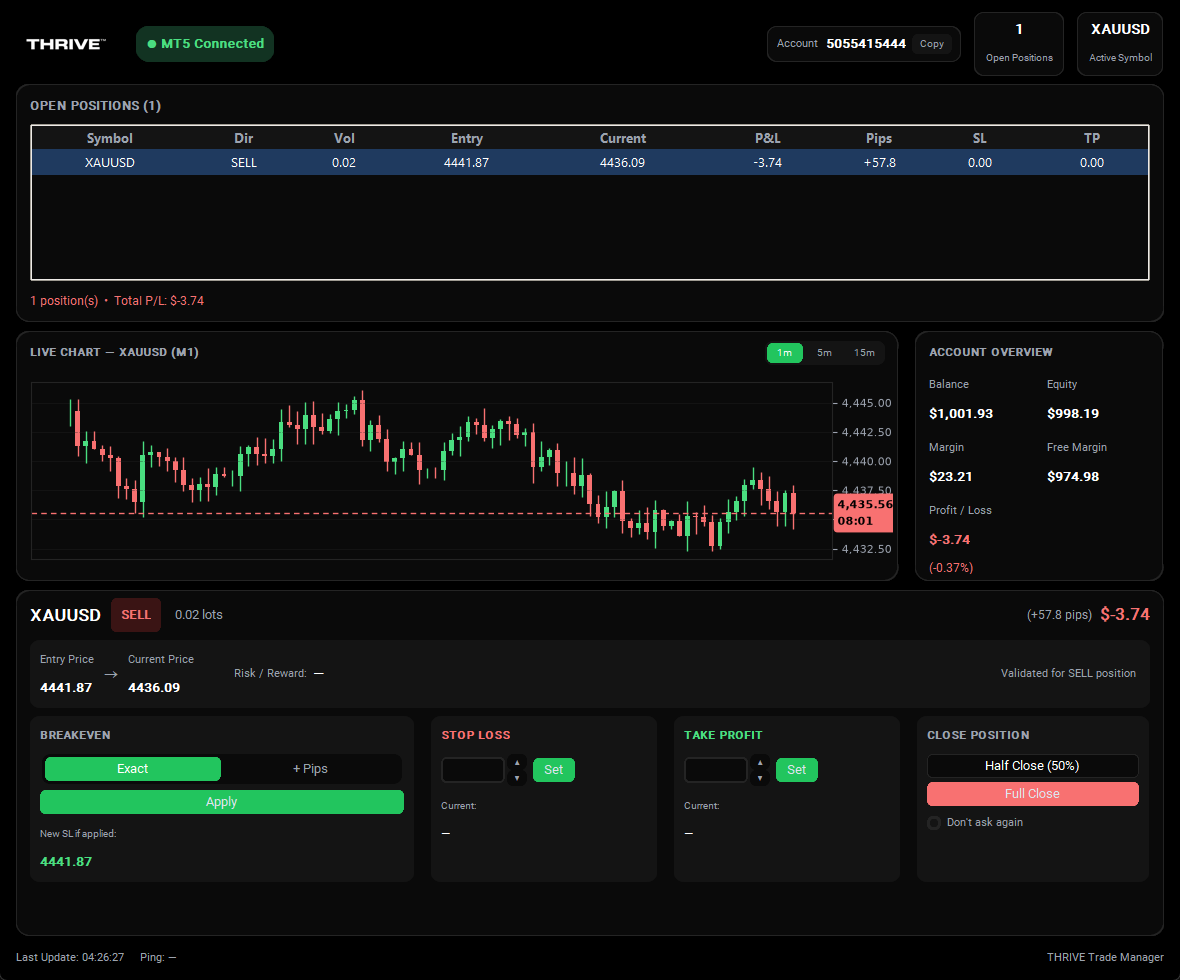
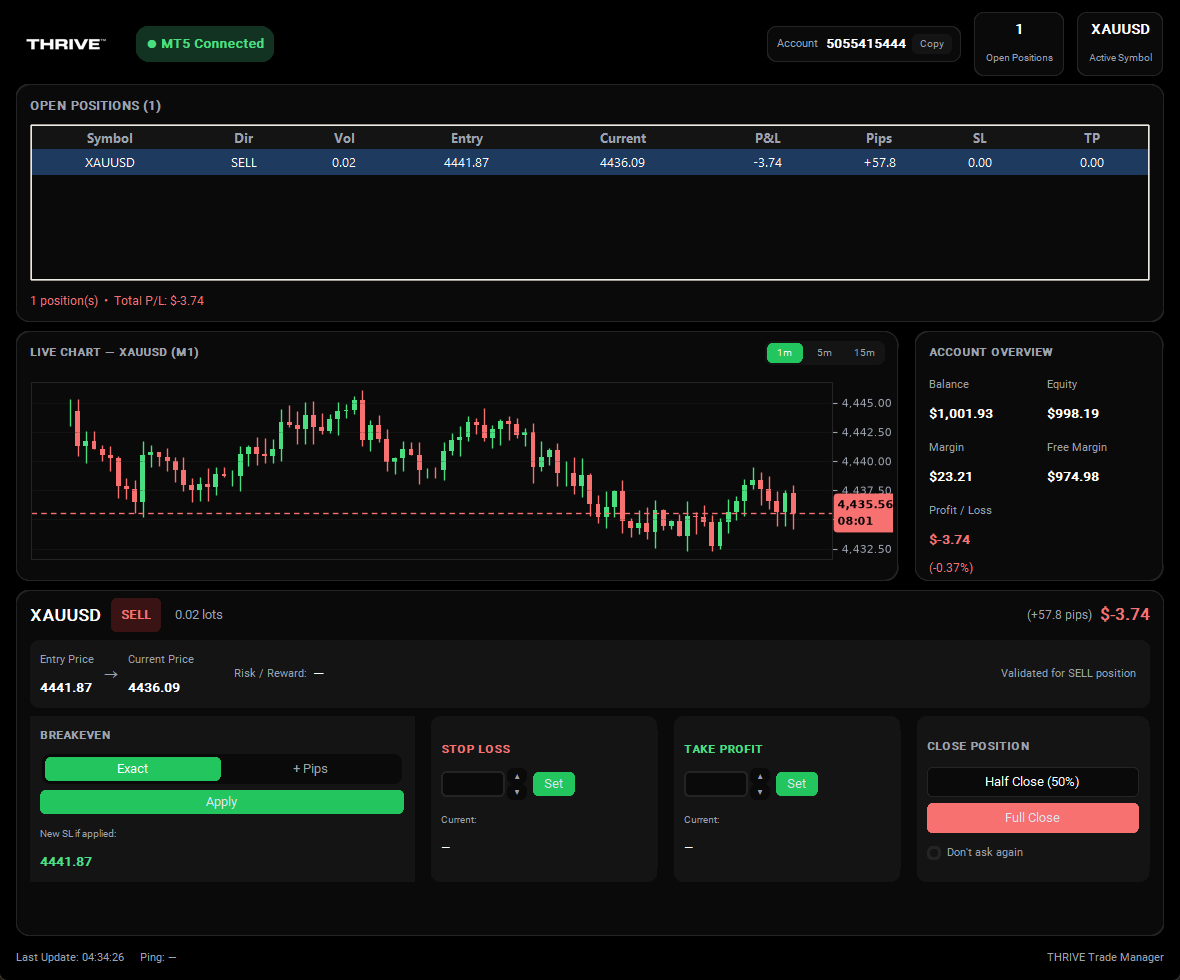
Vertically center detail panel's 4 action boxes; make Close Position bigger
Stop Loss and Take Profit's content sat top-anchored, leaving a large
dead gap below "Current: —" since the row's height is set by its
tallest sibling (Breakeven) -- confirmed by user screenshot. Wrapped
each box's content in an inner frame packed with fill="x", expand=True
(pack centers a widget vertically within any extra space it's given
when expand=True and fill doesn't include the packing direction), so
all 4 boxes now look intentionally centered instead of unevenly
top-heavy. Also bumped Close Position's button heights (24->30) and
padding for a bit more visual weight, since it's the highest-stakes
action on this panel.

diff --git a/gui.py b/gui.py
@@ -521,11 +521,20 @@ class TradeManagerApp:
         actions_row = ctk.CTkFrame(card, fg_color="transparent")
         actions_row.pack(fill="x", padx=14, pady=(0, 10))
 
+        # Each box's real content sits in an inner frame packed with
+        # expand=True and no fill -- pack centers a widget within any
+        # extra space it's given when expand=True/fill=off, so the
+        # (uneven, since Breakeven/Close Position naturally need more
+        # vertical room than Stop Loss/Take Profit) content ends up
+        # vertically centered in each box instead of stuck at the top
+        # with a dead gap below it (confirmed by user screenshot).
         be_box = ctk.CTkFrame(actions_row, fg_color=CARD_ALT, corner_radius=10)
         be_box.pack(side="left", fill="both", expand=True, padx=(0, 8))
-        ctk.CTkLabel(be_box, text="BREAKEVEN", font=ctk.CTkFont(size=11, weight="bold"),
+        be_content = ctk.CTkFrame(be_box, fg_color="transparent")
+        be_content.pack(fill="x", expand=True)
+        ctk.CTkLabel(be_content, text="BREAKEVEN", font=ctk.CTkFont(size=11, weight="bold"),
                      text_color=MUTED).pack(anchor="w", padx=10, pady=(6, 4))
-        toggle_row = ctk.CTkFrame(be_box, fg_color=CARD, corner_radius=8)
+        toggle_row = ctk.CTkFrame(be_content, fg_color=CARD, corner_radius=8)
         toggle_row.pack(fill="x", padx=12)
         self.be_exact_toggle = ctk.CTkButton(toggle_row, text="Exact", height=24,
                                               fg_color=ACCENT, hover_color=ACCENT_HOVER, text_color=TEXT,
@@ -551,26 +560,28 @@ class TradeManagerApp:
             side="left", padx=(6, 0))
 
         self.be_pip_note_label = ctk.CTkLabel(
-            be_box, text="1 pip = $0.10 (10 cents)", font=ctk.CTkFont(size=9), text_color=MUTED)
+            be_content, text="1 pip = $0.10 (10 cents)", font=ctk.CTkFont(size=9), text_color=MUTED)
 
-        self.be_apply_row = ctk.CTkFrame(be_box, fg_color="transparent")
+        self.be_apply_row = ctk.CTkFrame(be_content, fg_color="transparent")
         self.be_apply_row.pack(fill="x", padx=10, pady=(6, 0))
         self.be_apply_btn = ctk.CTkButton(self.be_apply_row, text="Apply", height=24,
                                            fg_color=ACCENT, hover_color=ACCENT_HOVER,
                                            command=self._on_breakeven_apply)
         self.be_apply_btn.pack(fill="x")
 
-        ctk.CTkLabel(be_box, text="New SL if applied:", font=ctk.CTkFont(size=10), text_color=MUTED).pack(
+        ctk.CTkLabel(be_content, text="New SL if applied:", font=ctk.CTkFont(size=10), text_color=MUTED).pack(
             anchor="w", padx=10, pady=(6, 0))
-        self.be_preview_value = ctk.CTkLabel(be_box, text="—", font=ctk.CTkFont(size=13, weight="bold"),
+        self.be_preview_value = ctk.CTkLabel(be_content, text="—", font=ctk.CTkFont(size=13, weight="bold"),
                                               text_color=GREEN)
         self.be_preview_value.pack(anchor="w", padx=10, pady=(0, 6))
 
         sl_box = ctk.CTkFrame(actions_row, fg_color=CARD_ALT, corner_radius=10)
         sl_box.pack(side="left", fill="both", expand=True, padx=8)
-        ctk.CTkLabel(sl_box, text="STOP LOSS", font=ctk.CTkFont(size=11, weight="bold"),
+        sl_content = ctk.CTkFrame(sl_box, fg_color="transparent")
+        sl_content.pack(fill="x", expand=True)
+        ctk.CTkLabel(sl_content, text="STOP LOSS", font=ctk.CTkFont(size=11, weight="bold"),
                      text_color=RED).pack(anchor="w", padx=10, pady=(6, 4))
-        sl_line = ctk.CTkFrame(sl_box, fg_color="transparent")
+        sl_line = ctk.CTkFrame(sl_content, fg_color="transparent")
         sl_line.pack(fill="x", padx=10)
         self.sl_field_frame, self.sl_entry = self._make_number_field(
             sl_line, width=64, step=0.1, decimals=lambda: self._price_decimals(self._selected_symbol()),
@@ -580,16 +591,18 @@ class TradeManagerApp:
         self.set_sl_btn = ctk.CTkButton(sl_line, text="Set", width=42, height=24,
                                          fg_color=ACCENT, hover_color=ACCENT_HOVER, command=self._on_set_sl)
         self.set_sl_btn.pack(side="left", padx=(6, 0))
-        ctk.CTkLabel(sl_box, text="Current:", font=ctk.CTkFont(size=10), text_color=MUTED).pack(
+        ctk.CTkLabel(sl_content, text="Current:", font=ctk.CTkFont(size=10), text_color=MUTED).pack(
             anchor="w", padx=10, pady=(6, 0))
-        self.current_sl_label = ctk.CTkLabel(sl_box, text="—", font=ctk.CTkFont(size=12), text_color=TEXT)
+        self.current_sl_label = ctk.CTkLabel(sl_content, text="—", font=ctk.CTkFont(size=12), text_color=TEXT)
         self.current_sl_label.pack(anchor="w", padx=10, pady=(0, 6))
 
         tp_box = ctk.CTkFrame(actions_row, fg_color=CARD_ALT, corner_radius=10)
         tp_box.pack(side="left", fill="both", expand=True, padx=8)
-        ctk.CTkLabel(tp_box, text="TAKE PROFIT", font=ctk.CTkFont(size=11, weight="bold"),
+        tp_content = ctk.CTkFrame(tp_box, fg_color="transparent")
+        tp_content.pack(fill="x", expand=True)
+        ctk.CTkLabel(tp_content, text="TAKE PROFIT", font=ctk.CTkFont(size=11, weight="bold"),
                      text_color=GREEN).pack(anchor="w", padx=10, pady=(6, 4))
-        tp_line = ctk.CTkFrame(tp_box, fg_color="transparent")
+        tp_line = ctk.CTkFrame(tp_content, fg_color="transparent")
         tp_line.pack(fill="x", padx=10)
         self.tp_field_frame, self.tp_entry = self._make_number_field(
             tp_line, width=64, step=0.1, decimals=lambda: self._price_decimals(self._selected_symbol()),
@@ -599,27 +612,33 @@ class TradeManagerApp:
         self.set_tp_btn = ctk.CTkButton(tp_line, text="Set", width=42, height=24,
                                          fg_color=ACCENT, hover_color=ACCENT_HOVER, command=self._on_set_tp)
         self.set_tp_btn.pack(side="left", padx=(6, 0))
-        ctk.CTkLabel(tp_box, text="Current:", font=ctk.CTkFont(size=10), text_color=MUTED).pack(
+        ctk.CTkLabel(tp_content, text="Current:", font=ctk.CTkFont(size=10), text_color=MUTED).pack(
             anchor="w", padx=10, pady=(6, 0))
-        self.current_tp_label = ctk.CTkLabel(tp_box, text="—", font=ctk.CTkFont(size=12), text_color=TEXT)
+        self.current_tp_label = ctk.CTkLabel(tp_content, text="—", font=ctk.CTkFont(size=12), text_color=TEXT)
         self.current_tp_label.pack(anchor="w", padx=10, pady=(0, 6))
 
+        # Close Position gets a bit more visual weight (taller buttons,
+        # more breathing room) than the other three boxes, on top of the
+        # same vertical-centering treatment -- it's the highest-stakes
+        # action on this panel.
         close_box = ctk.CTkFrame(actions_row, fg_color=CARD_ALT, corner_radius=10)
         close_box.pack(side="left", fill="both", expand=True, padx=(8, 0))
-        ctk.CTkLabel(close_box, text="CLOSE POSITION", font=ctk.CTkFont(size=11, weight="bold"),
-                     text_color=MUTED).pack(anchor="w", padx=10, pady=(6, 4))
-        self.half_close_btn = ctk.CTkButton(close_box, text="Half Close (50%)", height=24,
+        close_content = ctk.CTkFrame(close_box, fg_color="transparent")
+        close_content.pack(fill="x", expand=True)
+        ctk.CTkLabel(close_content, text="CLOSE POSITION", font=ctk.CTkFont(size=11, weight="bold"),
+                     text_color=MUTED).pack(anchor="w", padx=10, pady=(6, 6))
+        self.half_close_btn = ctk.CTkButton(close_content, text="Half Close (50%)", height=30,
                                              fg_color=CARD, hover_color=BORDER, text_color=TEXT,
                                              border_width=1, border_color=BORDER,
                                              command=self._on_half_close)
-        self.half_close_btn.pack(fill="x", padx=10, pady=(0, 4))
-        self.full_close_btn = ctk.CTkButton(close_box, text="Full Close", height=24,
+        self.half_close_btn.pack(fill="x", padx=10, pady=(0, 6))
+        self.full_close_btn = ctk.CTkButton(close_content, text="Full Close", height=30,
                                              fg_color=RED, hover_color="#dc2626",
                                              command=self._on_full_close)
-        self.full_close_btn.pack(fill="x", padx=10, pady=(0, 5))
+        self.full_close_btn.pack(fill="x", padx=10, pady=(0, 8))
         self.skip_confirm_var = tk.BooleanVar(value=False)
         self.skip_confirm_check = ctk.CTkCheckBox(
-            close_box, text="Don't ask again",
+            close_content, text="Don't ask again",
             variable=self.skip_confirm_var, font=ctk.CTkFont(size=11), text_color=MUTED,
             fg_color=ACCENT, hover_color=ACCENT_HOVER, border_color=BORDER,
             checkbox_width=14, checkbox_height=14)

diff --git a/update_check.py b/update_check.py
@@ -6,7 +6,7 @@ path here returns None rather than raising."""
 import json
 import urllib.request
 
-APP_VERSION = "1.0.2"
+APP_VERSION = "1.0.3"
 GITHUB_REPO = "Shani0017/Thrive-Trading-Manager"
 
 
